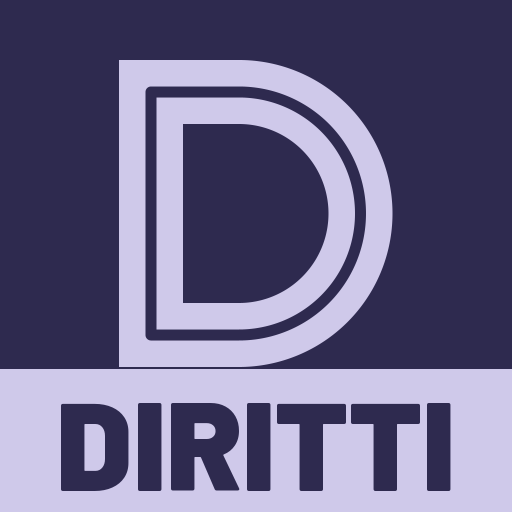
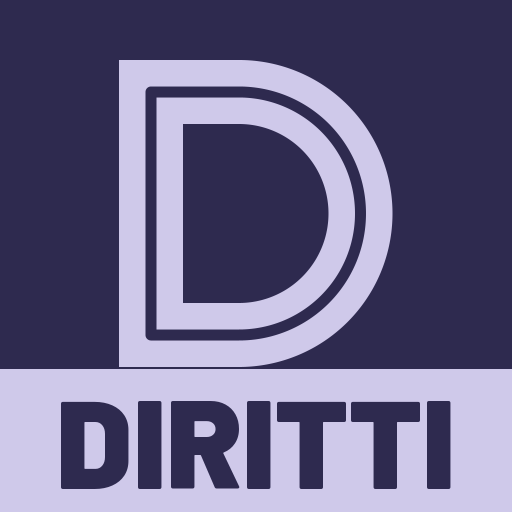
Add files via upload

diff --git a/index.html b/index.html
@@ -7,15 +7,15 @@
 <meta name="color-scheme" content="dark">
 <title>Diritti</title>
 <link rel="manifest" href="manifest.json">
-<link rel="icon" href="icon-192.png?v=1.0.6">
+<link rel="icon" href="icon-192.png?v=1.0.7">
 <link rel="apple-touch-icon" href="icon-192.png">
-<link rel="stylesheet" href="style.css?v=1.0.6">
+<link rel="stylesheet" href="style.css?v=1.0.7">
 <style>html,body{background:#17151F}</style>
 </head>
 <body>
 <header class="barra">
-  <a href="#/" class="logo" aria-label="Diritti, vai alla home"><img src="icon-192.png?v=1.0.6" alt="" width="30" height="30"><span class="nome-app">Diritti</span></a>
-  <span id="versione" class="versione" aria-label="Versione">v1.0.6</span>
+  <a href="#/" class="logo" aria-label="Diritti, vai alla home"><img src="icon-192.png?v=1.0.7" alt="" width="30" height="30"><span class="nome-app">Diritti</span></a>
+  <span id="versione" class="versione" aria-label="Versione">v1.0.7</span>
 </header>
 <main id="contenuto" tabindex="-1"></main>
 <nav class="menu" aria-label="Menu">
@@ -24,7 +24,7 @@
   <button class="btn-piccolo" data-vai="#/profilo">Profilo</button>
   <button class="btn-piccolo" data-vai="#/avviso">Avviso</button>
 </nav>
-<script src="data.js?v=1.0.6"></script>
-<script src="app.js?v=1.0.6"></script>
+<script src="data.js?v=1.0.7"></script>
+<script src="app.js?v=1.0.7"></script>
 </body>
 </html>

diff --git a/app.js b/app.js
@@ -1,5 +1,5 @@
 // Diritti – logica dell'app. Il profilo resta solo sul telefono (localStorage).
-const VERSIONE = 'v1.0.6';
+const VERSIONE = 'v1.0.7';
 const K_PROFILO = 'diritti_profilo';
 const K_AVVISO = 'diritti_avviso';   // { data: ISO, ver: n } – registro dell'accettazione
 const AVVISO_VER = 1;                // aumentarlo se cambia il testo dell'avviso: verrà richiesto di nuovo

diff --git a/sw.js b/sw.js
@@ -1,5 +1,5 @@
 // Diritti – service worker: funziona anche offline. Cambiare CACHE a ogni nuova versione.
-const CACHE = 'diritti-v1.0.6';
+const CACHE = 'diritti-v1.0.7';
 const FILE = ['./', 'index.html', 'style.css', 'app.js', 'data.js', 'manifest.json',
   'icon-192.png', 'icon-512.png', 'icon-maskable-512.png'];
 

diff --git a/Diritti_progetto.md b/Diritti_progetto.md
@@ -3,7 +3,7 @@
 **Nome app:** Diritti (nome breve sotto l'icona) · **Scritta nella fascia dell'icona:** DIRITTI · **Cartella:** C:\Appoggio-Claude\DIRITTI
 
 **Ultimo aggiornamento:** 10 novembre 2026
-**Stato:** v1.0.6 (11/11/2026).
+**Stato:** v1.0.7 (11/11/2026).
 
 ---
 
@@ -236,10 +236,10 @@ PWA accessibile e gratuita per scoprire le agevolazioni per persone con disabili
 ### v1.0.6 (11/11/2026) – nuova icona "E1 diritta"
 - Disegno: D grande e diritta (per Diritti e Disabilità), occhiello aperto, con una riga sottile scura a metà spessore che forma una seconda D interna (ispirazione: stile moderno tipo logo Formula 1, ma disegno originale). La D poggia sulla fascia con 2 px di stacco.
 - **Due soli colori**: scuro #2E2A4F (sfondo, scritta, riga interna) · chiaro #CFC9EA (fascia, D).
-- Scritta DIRITTI a **124 px** (eccezione allo standard di 132 px: a 132 tocca gli angoli; a 124 è larga 399 px, come PASTA). Base y=491, fascia da y=369.
+- Scritta DIRITTI a **124 px** (eccezione allo standard di 132 px: a 132 tocca gli angoli; a 124 è larga 399 px, come PASTA). Base **y=489** (alzata di 2 px in v1.0.7, su richiesta), fascia da y=369.
 - Maskable al 90% con margini: sopra scuro, sotto chiaro.
 - Scartate: D1 (D tagliata), D3 (sembra la lettera "Đ"), D4, E1 obliqua, E2, E3, E4.
-- Icone con `?v=1.0.6` in manifest.json e index.html per forzare l'aggiornamento. Su Android l'icona dell'app installata può metterci qualche giorno ad aggiornarsi (lo decide Chrome); per averla subito: disinstallare e reinstallare la PWA.
+- Icone con `?v=<versione>` in manifest.json e index.html per forzare l'aggiornamento. Su Android l'icona dell'app installata può metterci qualche giorno ad aggiornarsi (lo decide Chrome); per averla subito: disinstallare e reinstallare la PWA.
 
 SVG del disegno (512×512, prima della fascia):
 ```svg
@@ -250,3 +250,5 @@ SVG del disegno (512×512, prima della fascia):
 </g>
 ```
 
+### v1.0.7 (11/11/2026)
+- Scritta DIRITTI nell'icona alzata di 2 px (base y=489).
